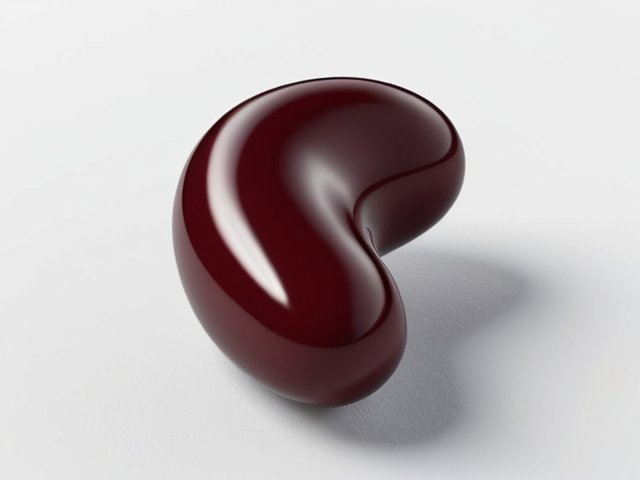
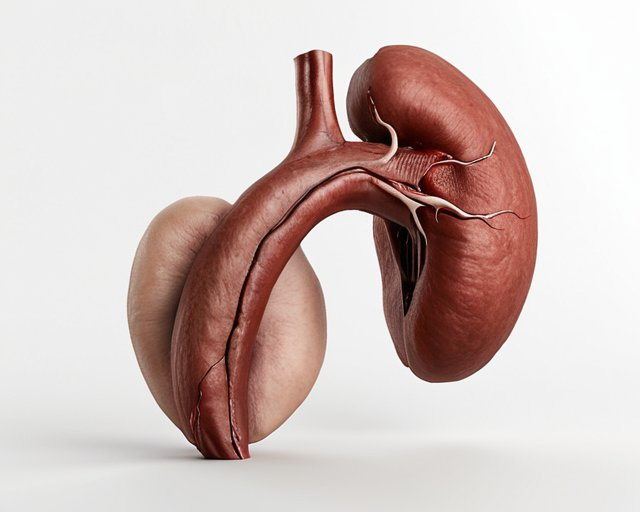
Quizzes: realistic kidney & clearer stomach organ images (retry)
Kidney is now a realistic anatomical render with renal vessels (not a flat
bean); stomach is a clean recognisable J-shaped organ (esophagus + body +
duodenum) instead of the mislabelled diagram. sw bumped so clients refresh.

diff --git a/sw.js b/sw.js
@@ -1,4 +1,4 @@
-const CACHE = 'dcop7-v123';
+const CACHE = 'dcop7-v124';
 const STATIC = [
   '/',
   '/index.html',